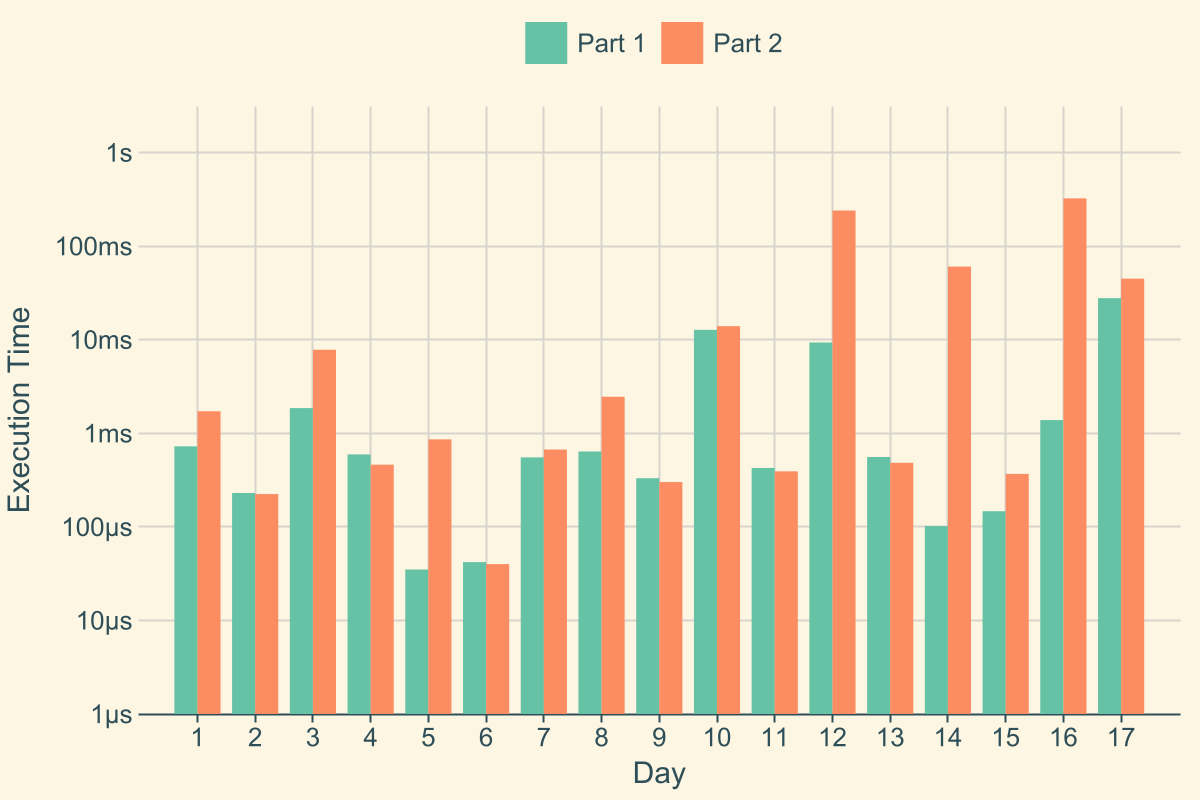
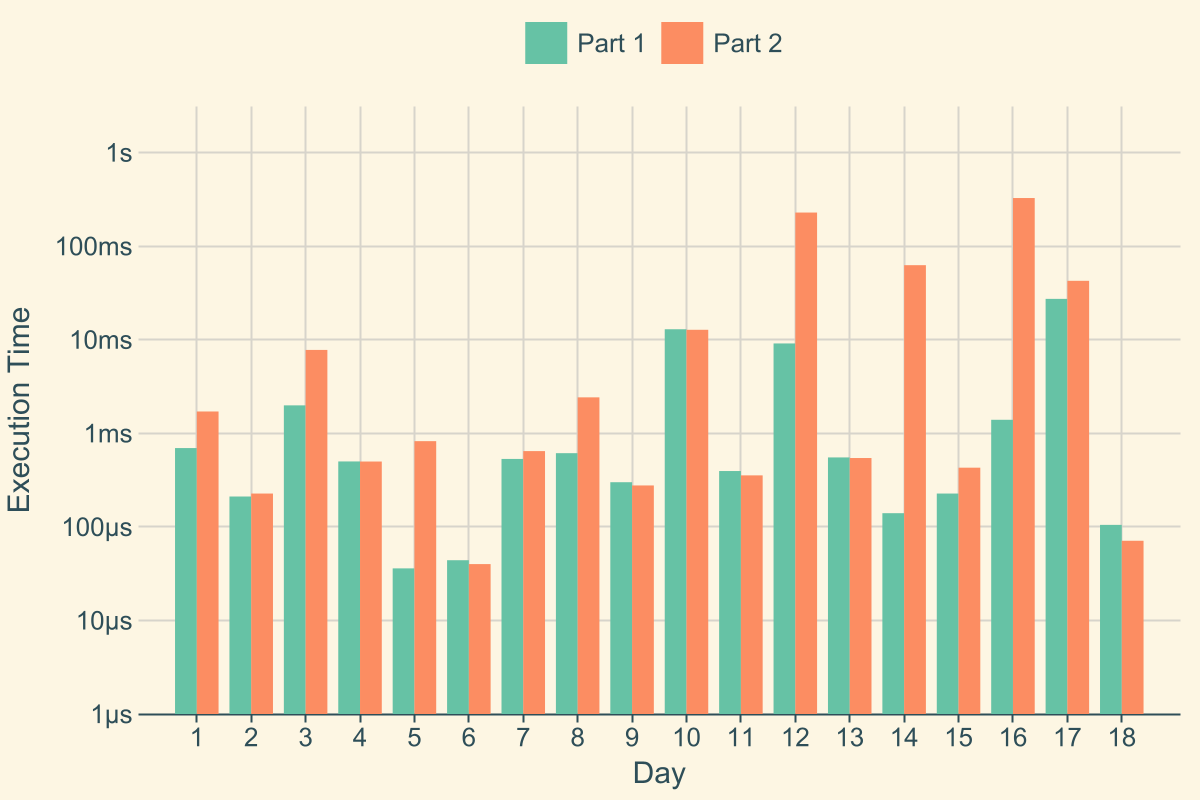
18

Changed region(s): [[0.1542, 0.2188, 0.9558, 0.9375], [0.925, 0.9062, 0.9558, 0.9375]]

diff --git a/src/day18.rs b/src/day18.rs
@@ -1,0 +1,170 @@
+use std::ops::{Add, Mul, Sub};
+use std::str::FromStr;
+
+use crate::harness::{Day, Part};
+
+pub fn day18() -> Day<u64, u64> {
+    Day::new(18, Box::new(Part1 {}), Box::new(Part2 {}))
+}
+
+pub struct Part1;
+
+impl Part<u64> for Part1 {
+    fn expect_test(&self) -> u64 {
+        62
+    }
+
+    fn solve(&self, input: &[String]) -> u64 {
+        solve(parse(input).0)
+    }
+}
+
+pub struct Part2;
+
+impl Part<u64> for Part2 {
+    fn expect_test(&self) -> u64 {
+        952408144115
+    }
+
+    fn solve(&self, input: &[String]) -> u64 {
+        solve(parse(input).1)
+    }
+}
+
+fn solve(instructions: Vec<Instruction>) -> u64 {
+    let polygon = build_polygon(instructions);
+    calculate_area(&polygon)
+}
+
+fn build_polygon(instructions: Vec<Instruction>) -> Vec<Vec2> {
+    let mut result = vec![];
+
+    let mut current = v(0, 0);
+    for instruction in instructions {
+        current = current + (instruction.direction * instruction.length as i64);
+        result.push(current);
+    }
+
+    result
+}
+
+fn calculate_area(polygon: &[Vec2]) -> u64 {
+    (0..polygon.len()).map(|i|
+        polygon[i].x * polygon[(i + 1) % polygon.len()].y
+            - polygon[i].y * polygon[(i + 1) % polygon.len()].x
+            + (polygon[i] - polygon[(i + 1) % polygon.len()]).abs()
+    ).sum::<i64>().unsigned_abs() / 2 + 1
+}
+
+fn parse(input: &[String]) -> (Vec<Instruction>, Vec<Instruction>) {
+    input.iter()
+        .filter(|l| !l.is_empty())
+        .map(|l| parse_line(l))
+        .unzip()
+}
+
+fn parse_line(line: &str) -> (Instruction, Instruction) {
+    let mut split = line.split(' ');
+
+    let direction = Vec2::from_str(split.next().unwrap()).unwrap();
+    let distance = split.next().unwrap().parse::<usize>().unwrap();
+
+    let color =
+        split.next().unwrap()[2..8].chars()
+            .map(|e| e.to_digit(16).unwrap())
+            .rev()
+            .enumerate()
+            .map(|(idx, e)| 16_usize.pow(idx as u32) * e as usize)
+            .sum::<usize>();
+
+    let distance2 = color >> 4;
+    let direction2 = Vec2::DIRECTIONS[color % 16];
+
+    (
+        Instruction::new(
+            direction,
+            distance,
+        ),
+        Instruction::new(
+            direction2,
+            distance2,
+        ),
+    )
+}
+
+#[derive(Debug)]
+struct Instruction {
+    direction: Vec2,
+    length: usize,
+}
+
+impl Instruction {
+    pub fn new(direction: Vec2, length: usize) -> Self {
+        Self { direction, length }
+    }
+}
+
+const fn v(x: i64, y: i64) -> Vec2 {
+    Vec2::new(x, y)
+}
+
+#[derive(Debug, Copy, Clone, Hash, Eq, PartialEq, Default)]
+struct Vec2 {
+    x: i64,
+    y: i64,
+}
+
+impl Vec2 {
+    const NORTH: Self = v(0, -1);
+    const EAST: Self = v(1, 0);
+    const SOUTH: Self = v(0, 1);
+    const WEST: Self = v(-1, 0);
+
+    const DIRECTIONS: [Self; 4] = [Self::NORTH, Self::EAST, Self::SOUTH, Self::WEST];
+
+    const fn new(x: i64, y: i64) -> Self {
+        Self { x, y }
+    }
+
+    const fn abs(&self) -> i64 {
+        self.x.abs() + self.y.abs()
+    }
+}
+
+impl FromStr for Vec2 {
+    type Err = ();
+
+    fn from_str(s: &str) -> Result<Self, Self::Err> {
+        match s {
+            "U" => Ok(Vec2::NORTH),
+            "R" => Ok(Vec2::EAST),
+            "D" => Ok(Vec2::SOUTH),
+            "L" => Ok(Vec2::WEST),
+            _ => Err(())
+        }
+    }
+}
+
+impl Add<Vec2> for Vec2 {
+    type Output = Self;
+
+    fn add(self, rhs: Vec2) -> Self::Output {
+        v(self.x + rhs.x, self.y + rhs.y)
+    }
+}
+
+impl Sub<Vec2> for Vec2 {
+    type Output = Self;
+
+    fn sub(self, rhs: Vec2) -> Self::Output {
+        v(self.x - rhs.x, self.y - rhs.y)
+    }
+}
+
+impl Mul<i64> for Vec2 {
+    type Output = Vec2;
+
+    fn mul(self, rhs: i64) -> Self::Output {
+        v(self.x * rhs, self.y * rhs)
+    }
+}

diff --git a/src/main.rs b/src/main.rs
@@ -22,7 +22,7 @@ use crate::day14::day14;
 use crate::day15::day15;
 use crate::day16::day16;
 use crate::day17::day17;
-// use crate::day18::day18;
+use crate::day18::day18;
 // use crate::day19::day19;
 // use crate::day20::day20;
 // use crate::day21::day21;
@@ -49,7 +49,7 @@ mod day14;
 mod day15;
 mod day16;
 mod day17;
-// mod day18;
+mod day18;
 // mod day19;
 // mod day20;
 // mod day21;
@@ -77,7 +77,7 @@ fn main() {
         day15().f(),
         day16().f(),
         day17().f(),
-        // day18().f(),
+        day18().f(),
         // day19().f(),
         // day20().f(),
         // day21().f(),
